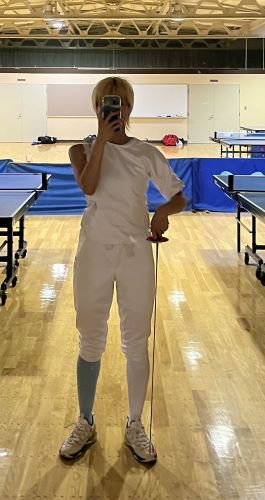
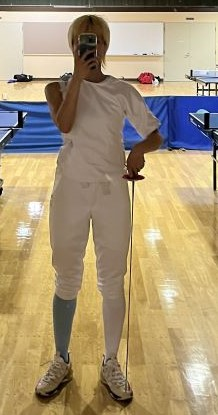
Update baseurl and url for GitHub Pages

diff --git a/_posts/2025-1-14-Who-is-hong.md b/_posts/2025-1-14-Who-is-hong.md
@@ -33,14 +33,13 @@ She couldn't make it to be a professional athlete because she loves biology more
 She is a sports person. She has played foil for almost one year in the school club. 
 <!-- Only include these images for this blog -->
 <div class="side-by-side-images">
-  <img src="https://raw.githubusercontent.com/CleanYANG/HONG-s-page/main/assets/img/workout.jpeg" alt="Picture 1">
-  <img src="https://raw.githubusercontent.com/CleanYANG/HONG-s-page/main/assets/img/fence.jpeg" alt="Picture 2">
+  <img src="https://raw.githubusercontent.com/CleanYANG/HONG-s-page/main/assets/img/Snow.jpeg" alt="Picture 1">
+  <img src="https://raw.githubusercontent.com/CleanYANG/HONG-s-page/main/assets/img/fence.jpg" alt="Picture 2">
 </div>
 ## Basketball
 She is a defender but not good at it
 ## Snowboarding
 This is her favorite winter sports. She goes to snowbparding once a week.
-![snowboarding](https://raw.githubusercontent.com/CleanYANG/HONG-s-page/main/assets/img/Snow.jpeg)
 
 ## Learning different languages
 She can rap in southern Chinese dialect and speak mandarin. Japanese is not a big challenge of course. She is learning spanish seriously and slowly now. 
